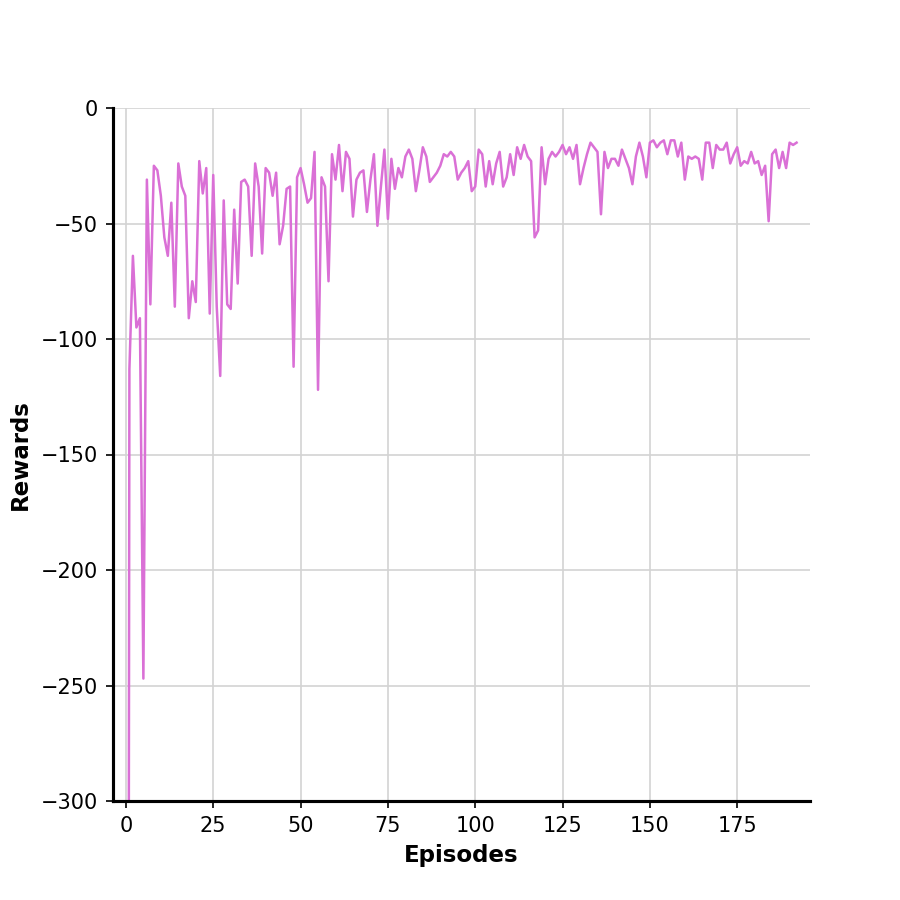
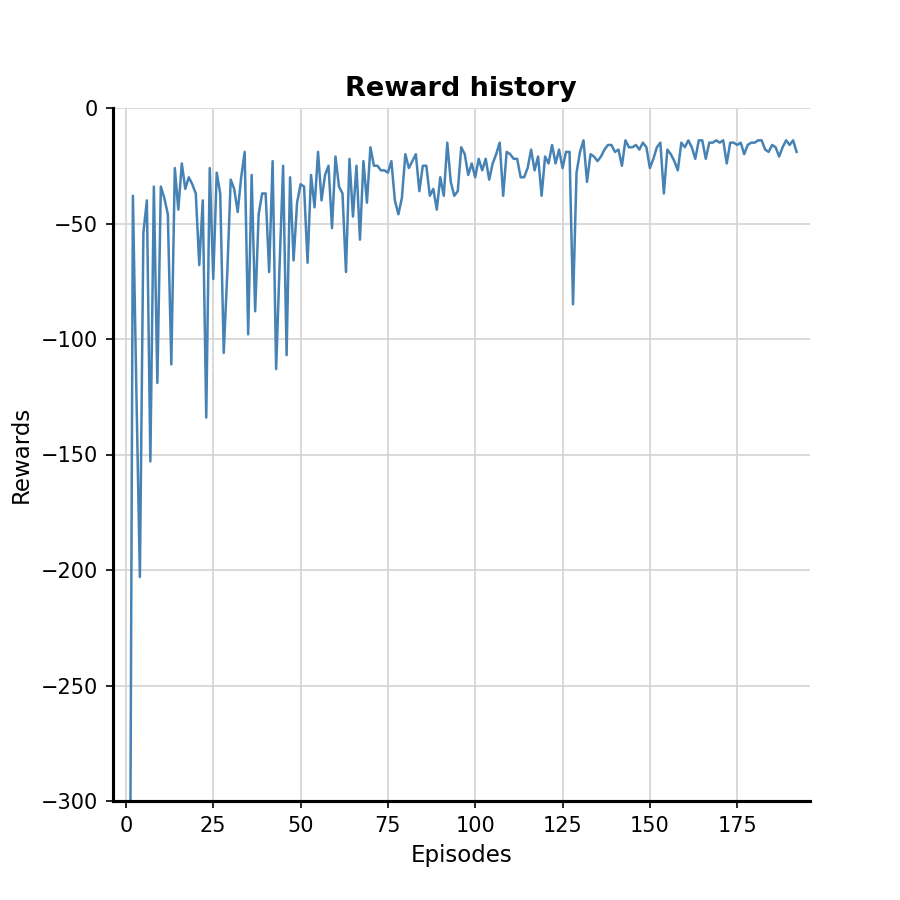
example 6.5 updated

diff --git a/chapter_06_temporal_difference_learning/example_6_5_windy_gridworld.py b/chapter_06_temporal_difference_learning/example_6_5_windy_gridworld.py
@@ -66,13 +66,13 @@ def run_sarsa_windy(
         env, alpha=alpha, epsilon=epsilon, total_steps=total_steps
     )
     if plot:
-        plt_setup(xlabel="Steps/Walks", ylabel="Episodes")
+        plt_setup(xlabel="Steps/Walks", ylabel="Episodes", title="Step-Episode history")
         plt.plot(step_episode_hist[:8000], linewidth=1.2, c="tomato")
         plt.savefig("./plots/example_6_5/step_episodes.png")
         plt.show()
-        plt_setup(xlabel="Episodes", ylabel="Rewards")
+        plt_setup(xlabel="Episodes", ylabel="Rewards", title="Reward history")
         plt.ylim((-300, 0))
-        plt.plot(reward_hist[: step_episode_hist[8000]], linewidth=1.2, c="orchid")
+        plt.plot(reward_hist[: step_episode_hist[8000]], linewidth=1.2, c="steelblue")
         plt.savefig("./plots/example_6_5/rewards.png")
         plt.show()
 
@@ -90,7 +90,7 @@ def run_sarsa_windy(
 
 def plt_setup(xlabel: str, ylabel: str, title: str = None):
     # codes for plotting
-    font_dict = {"fontsize": 11, "fontweight": "bold"}
+    font_dict = {"fontsize": 11}
     plt.figure(figsize=(6, 6), dpi=150)
     plt.grid(c="lightgray")
     plt.margins(0.02)

diff --git a/chapter_06_temporal_difference_learning/README.md b/chapter_06_temporal_difference_learning/README.md
@@ -21,3 +21,10 @@ Batch-updating versions of TD(0) and constant- $\alpha$ MC were applied as follo
 <p align="center">
     <img src='./plots/example_6_3.png', width=75%>
 </p>
+
+### 6.5 Windy Gridworld
+
+<p align="center">
+    <img src='./plots/example_6_5/step_episodes.png', width=45%>
+    <img src='./plots/example_6_5/rewards.png', width=45%>
+</p>
